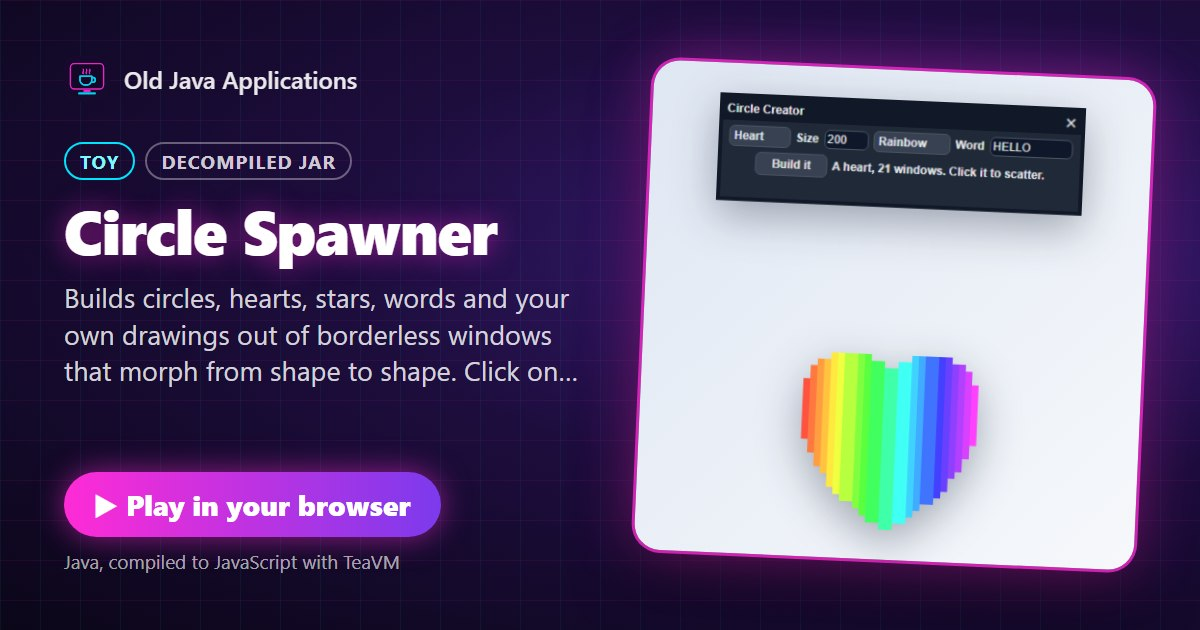
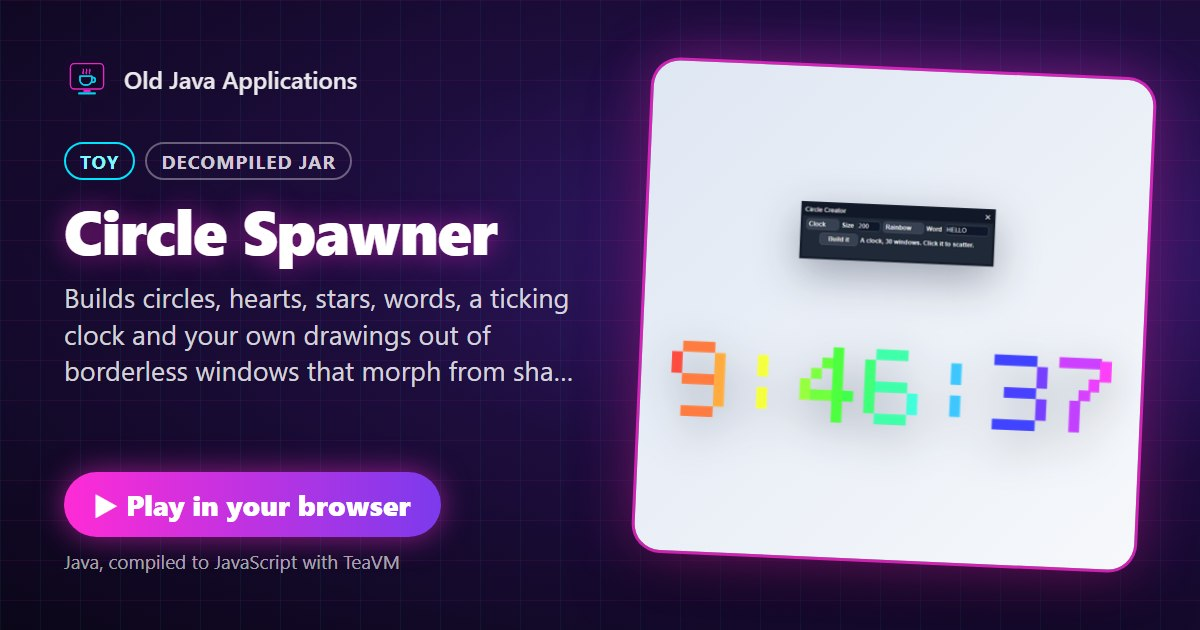
CircleSpawner Clock: the time, built out of windows, ticking every second
New Clock shape spells the local time (12-hour, h:mm:ss) in the pixel font and
keeps it going: each second only the windows of the digits that changed glide
into the next digit, while the rest stay put (Morph can now pair windows by
their place on screen). A slow screen skips a second instead of falling behind;
scattering the clock stops it. Font gains a colon. Self-check covers the time
text, the colon and in-place ticks. New thumbnail and share card.

Claude-Session: https://claude.ai/code/session_01ME2AkgdVoqLCmoiPE7K9JH

Changed region(s): [[0.5858, 0.1508, 0.925, 0.4825], [0.555, 0.5429, 0.925, 0.8746], [0.0308, 0.4524, 0.4933, 0.6333]]

diff --git a/web/site/index.html b/web/site/index.html
@@ -552,7 +552,7 @@
     <li data-app="NumberGuess" data-then data-origin="original" data-cat="game"><a class="thumb" href="NumberGuess/index.html"><img src="shots/NumberGuess.png" alt="Number Guess: a number found on the number line, with stars for the guesses" loading="lazy"></a><div class="body"><strong>Number Guess</strong><span>Find the hidden number in five ranges, from 1-10 to 1-1,000,000. The number line lights what is still possible: type a guess or click it. Par or better is three stars. You pick turns it around: the computer guesses yours. Magic is a card trick: say which of six cards hold your number and it reads your mind, then shows how.</span><div class="actions"><a class="btn primary play" href="NumberGuess/index.html">Play</a><a class="btn" href="NumberGuess/index.html">Full page</a></div></div></li>
     <li data-app="TankGame" data-clip data-then data-origin="original" data-cat="game"><a class="thumb" href="TankGame/index.html"><img src="shots/TankGame.png" alt="Tank Game: a red and a green tank fighting among concrete walls on grass" loading="lazy"></a><div class="body"><strong>Tank Game</strong><span>Tank duel against the computer or a friend, behind walls that change every round, racing for parachuted supply crates: shields, triple shots, ricochets. W A S D and Q drive and fire red, arrow keys and M green. First to three rounds wins.</span><div class="actions"><a class="btn primary play" href="TankGame/index.html">Play</a><a class="btn" href="TankGame/index.html">Full page</a></div></div></li>
     <li data-app="MusicTheoryExpert" data-clip data-then data-origin="original" data-cat="music"><a class="thumb" href="MusicTheoryExpert/index.html"><img src="shots/MusicTheoryExpert.png" alt="Music Theory Expert: the Songwriter, a circle of fifths beside the chords of G major and a keyboard" loading="lazy"></a><div class="body"><strong>Music Theory Expert</strong><span>Ear training in six drills, a Songwriter that loops chord progressions from a circle of fifths, and a Chord finder: hold any notes and it names the chord, writes it on a staff and finds its key.</span><div class="actions"><a class="btn primary play" href="MusicTheoryExpert/index.html">Play</a><a class="btn" href="MusicTheoryExpert/index.html">Full page</a></div></div></li>
-    <li data-app="CircleSpawner" data-clip data-then data-cat="toy" data-min-width="400"><a class="thumb" href="CircleSpawner/index.html"><img src="shots/CircleSpawner.png" alt="A rainbow heart built out of windows under the Circle Creator window" loading="lazy"></a><div class="body"><strong>Circle Spawner</strong><span>Builds circles, hearts, stars, words and your own drawings out of borderless windows that morph from shape to shape. Click one to scatter it.</span><div class="actions"><a class="btn primary play" href="CircleSpawner/index.html">Play</a><a class="btn" href="CircleSpawner/index.html">Full page</a></div></div></li>
+    <li data-app="CircleSpawner" data-clip data-then data-cat="toy" data-min-width="400"><a class="thumb" href="CircleSpawner/index.html"><img src="shots/CircleSpawner.png" alt="A rainbow clock showing the time, built out of windows under the Circle Creator window" loading="lazy"></a><div class="body"><strong>Circle Spawner</strong><span>Builds circles, hearts, stars, words, a ticking clock and your own drawings out of borderless windows that morph from shape to shape. Click one to scatter it.</span><div class="actions"><a class="btn primary play" href="CircleSpawner/index.html">Play</a><a class="btn" href="CircleSpawner/index.html">Full page</a></div></div></li>
     <li data-app="ScreenSaver" data-clip data-then data-cat="toy"><a class="thumb" href="ScreenSaver/index.html"><img src="shots/ScreenSaver.png" alt="Screen Saver: a painted aquarium with named fish among swaying weed" loading="lazy"></a><div class="body"><strong>Screen Saver</strong><span>Nine screen savers, from the original green circles to an aquarium of fish that stay yours: a new one moves in each day you look in, and F feeds them. 9 for the fish, N for the next.</span><div class="actions"><a class="btn primary play" href="ScreenSaver/index.html">Play</a><a class="btn" href="ScreenSaver/index.html">Full page</a></div></div></li>
     <li data-app="Windows" data-cat="toy"><a class="thumb" href="Windows/index.html"><img src="shots/Windows.png" alt="Windows: a Start menu of every app on the site, with a search box" loading="lazy"></a><div class="body"><strong>Windows</strong><span>Presses the Windows key once, then quits. On this page the key opens a pretend Start menu of every app here: type to search, Enter to play.</span><div class="actions"><a class="btn primary play" href="Windows/index.html">Play</a><a class="btn" href="Windows/index.html">Full page</a></div></div></li>
     <li data-app="WindowsE" data-then data-cat="toy"><a class="thumb" href="WindowsE/index.html"><img src="shots/WindowsE.png" alt="Windows+E: a cascade of File Explorer windows beside its DO IT!!! window" loading="lazy"></a><div class="body"><strong>Windows+E</strong><span>Presses Win+E as many times as you ask, opening that many File Explorer windows. Here they are pretend ones over this site's app folders: double-click a folder to play it.</span><div class="actions"><a class="btn primary play" href="WindowsE/index.html">Play</a><a class="btn" href="WindowsE/index.html">Full page</a></div></div></li>

diff --git a/web/site/CircleSpawner/index.html b/web/site/CircleSpawner/index.html
@@ -5,11 +5,11 @@
   <meta name="viewport" content="width=device-width, initial-scale=1">
   <title>Circle Spawner</title>
   <!-- share: written by web/cards.ps1 from the gallery in index.html -->
-  <meta name="description" content="Builds circles, hearts, stars, words and your own drawings out of borderless windows that morph from shape to shape. Click one to scatter it. Recovered from an old Java jar and playable in the browser.">
+  <meta name="description" content="Builds circles, hearts, stars, words, a ticking clock and your own drawings out of borderless windows that morph from shape to shape. Click one to scatter it. Recovered from an old Java jar and playable in the browser.">
   <meta property="og:type" content="website">
   <meta property="og:site_name" content="Old Java Applications">
   <meta property="og:title" content="Circle Spawner | Old Java Applications">
-  <meta property="og:description" content="Builds circles, hearts, stars, words and your own drawings out of borderless windows that morph from shape to shape. Click one to scatter it. Recovered from an old Java jar and playable in the browser.">
+  <meta property="og:description" content="Builds circles, hearts, stars, words, a ticking clock and your own drawings out of borderless windows that morph from shape to shape. Click one to scatter it. Recovered from an old Java jar and playable in the browser.">
   <meta property="og:url" content="../CircleSpawner/index.html">
   <meta property="og:image" content="../cards/CircleSpawner.jpg">
   <meta property="og:image:width" content="1200">

diff --git a/CircleSpawner/src/circlewindow/CircleCreatorWindow.java b/CircleSpawner/src/circlewindow/CircleCreatorWindow.java
@@ -7,6 +7,7 @@ import java.awt.Rectangle;
 import java.awt.Toolkit;
 import java.util.ArrayList;
 import java.util.Arrays;
+import java.util.Date;
 import java.util.List;
 import java.util.Random;
 import javax.swing.JButton;
@@ -39,7 +40,11 @@ public final class CircleCreatorWindow extends JFrame {
    /** Frames for one shape to turn into another, and for the drawing to follow the pen. */
    private static final int MORPH_FRAMES = 40;
    private static final int DRAW_FRAMES = 10;
+   /** Frames for the Clock to turn into the next second, so it settles well before the one after. */
+   private static final int TICK_FRAMES = 24;
    private static final int FRAME_MILLIS = 16;
+   /** How often the Clock looks at the time. */
+   private static final int TICK_MILLIS = 100;
 
    private final JComboBox<String> shapeBox = new JComboBox<>(Shapes.ALL);
    private final JTextField sizeField = new JTextField("200", 4);
@@ -57,9 +62,14 @@ public final class CircleCreatorWindow extends JFrame {
    private final Timer buildTimer = new Timer(FRAME_MILLIS, event -> this.buildStep());
    private final Timer scatterTimer = new Timer(FRAME_MILLIS, event -> this.scatterStep());
    private final Timer morphTimer = new Timer(FRAME_MILLIS, event -> this.morphStep());
+   private final Timer clockTimer = new Timer(TICK_MILLIS, event -> this.tick());
    private final Saved saved = Saved.load();
    private Morph morph;
    private String builtShape = "";
+   /** The time the Clock on screen spells (or is turning into). */
+   private String shownTime = "";
+   /** True while the Clock turns into the next second: no messages, nothing saved, windows stay in place. */
+   private boolean ticking;
    private int built;
    private int scatterFrame;
    private boolean settingUp = true;
@@ -127,6 +137,26 @@ public final class CircleCreatorWindow extends JFrame {
       this.setVisible(true);
       this.settingUp = false;
       this.build();
+      this.clockTimer.start();
+   }
+
+   /**
+    * Turns the Clock on screen into the time now when the second has changed, once whatever it is doing is
+    * done (so a slow screen skips a second rather than never settling).
+    */
+   private void tick() {
+      if (!Shapes.CLOCK.equals(this.builtShape) || !Shapes.CLOCK.equals(this.shapeBox.getSelectedItem())
+            || this.slices.isEmpty() || this.buildTimer.isRunning() || this.scatterTimer.isRunning()
+            || this.morphTimer.isRunning()
+            || Shapes.clockText(new Date()).equals(this.shownTime)) {
+         return;
+      }
+      this.ticking = true;
+      try {
+         this.show(TICK_FRAMES);
+      } finally {
+         this.ticking = false;
+      }
    }
 
    private boolean drawing() {
@@ -182,8 +212,15 @@ public final class CircleCreatorWindow extends JFrame {
          return null;
       }
       this.builtShape = shape;
-      this.remember();
-      List<Rectangle> pieces = Shapes.build(shape, size, this.wordField.getText(), this.pad.cells(),
+      String word = this.wordField.getText();
+      if (Shapes.CLOCK.equals(shape)) {
+         word = Shapes.clockText(new Date());
+         this.shownTime = word;
+      }
+      if (!this.ticking) {
+         this.remember();
+      }
+      List<Rectangle> pieces = Shapes.build(shape, size, word, this.pad.cells(),
          screen.width / 2, top + (screen.height - top) / 2, screen.width * 9 / 10);
       if (pieces.isEmpty()) {
          this.status.setText("Draw on the pad and the windows follow.");
@@ -236,9 +273,9 @@ public final class CircleCreatorWindow extends JFrame {
       this.stopAll();
       this.pending.clear();
       this.pendingColors.clear();
-      this.morph = new Morph(this.slices, pieces, this.colors(pieces, this.builtShape), frames,
+      this.morph = new Morph(this.slices, pieces, this.colors(pieces, this.builtShape), frames, this.ticking,
          (bounds, color) -> new CircleSliceWindow(bounds, color, "", false, this::scatter));
-      if (frames > DRAW_FRAMES) {
+      if (frames > DRAW_FRAMES && !this.ticking) {
          this.status.setText("Changing into " + this.shapeName() + "...");
       }
       this.morphTimer.start();

diff --git a/CircleSpawner/src/circlewindow/Morph.java b/CircleSpawner/src/circlewindow/Morph.java
@@ -27,16 +27,17 @@ final class Morph {
    /**
     * Starts moving the shape's windows (old) to the rectangles target with colors. The shape's list of windows
     * becomes the new shape's at once, in target order; newWindow makes a window that splits off at a rectangle,
-    * in a color.
+    * in a color. With inPlace (the Clock ticking) windows pair by where they are on screen rather than within
+    * their shape, so the windows of the digits that did not change stay where they are.
     */
-   Morph(List<CircleSliceWindow> old, List<Rectangle> target, List<Color> colors, int frames,
+   Morph(List<CircleSliceWindow> old, List<Rectangle> target, List<Color> colors, int frames, boolean inPlace,
          BiFunction<Rectangle, Color, CircleSliceWindow> newWindow) {
       this.frames = Math.max(1, frames);
       List<Rectangle> oldBounds = new ArrayList<>();
       for (CircleSliceWindow w : old) {
          oldBounds.add(w.getBounds());
       }
-      int[] source = match(target, oldBounds);
+      int[] source = match(target, oldBounds, inPlace);
       boolean[] used = new boolean[old.size()];
       List<CircleSliceWindow> next = new ArrayList<>();
       for (int i = 0; i < target.size(); i++) {
@@ -52,7 +53,7 @@ final class Morph {
          this.add(w, target.get(i), colors.get(i));
          next.add(w);
       }
-      int[] sink = match(oldBounds, target);
+      int[] sink = match(oldBounds, target, inPlace);
       for (int s = 0; s < old.size(); s++) {
          if (!used[s]) {
             CircleSliceWindow w = old.get(s);
@@ -102,16 +103,19 @@ final class Morph {
    /**
     * For each rectangle in wanted, the index of the rectangle in have at the most similar place within its own
     * shape (centers and sizes as fractions of each shape's bounds), each one used once while any are left and
-    * then shared; -1 when have is empty. Nearest pairs are taken first.
+    * then shared; -1 when have is empty. Nearest pairs are taken first. With inPlace both are measured against
+    * the bounds of the two shapes together, so a rectangle that is in both pairs with itself.
     */
-   static int[] match(List<Rectangle> wanted, List<Rectangle> have) {
+   static int[] match(List<Rectangle> wanted, List<Rectangle> have, boolean inPlace) {
       int[] result = new int[wanted.size()];
       Arrays.fill(result, -1);
       if (have.isEmpty() || wanted.isEmpty()) {
          return result;
       }
-      double[][] a = normalized(wanted);
-      double[][] b = normalized(have);
+      Rectangle together = bounds(wanted);
+      together.add(bounds(have));
+      double[][] a = normalized(wanted, inPlace ? together : bounds(wanted));
+      double[][] b = normalized(have, inPlace ? together : bounds(have));
       int pairs = wanted.size() * have.size();
       double[] cost = new double[pairs];
       for (int i = 0; i < wanted.size(); i++) {
@@ -148,12 +152,16 @@ final class Morph {
       return result;
    }
 
-   /** Each rectangle's center and size as fractions of the bounds of them all. */
-   private static double[][] normalized(List<Rectangle> rects) {
+   private static Rectangle bounds(List<Rectangle> rects) {
       Rectangle area = new Rectangle(rects.get(0));
       for (Rectangle r : rects) {
          area.add(r);
       }
+      return area;
+   }
+
+   /** Each rectangle's center and size as fractions of area's size, measured from its corner. */
+   private static double[][] normalized(List<Rectangle> rects, Rectangle area) {
       double w = Math.max(1, area.width);
       double h = Math.max(1, area.height);
       double[][] out = new double[rects.size()][];

diff --git a/CircleSpawner/test/circlewindow/MorphCheck.java b/CircleSpawner/test/circlewindow/MorphCheck.java
@@ -2,6 +2,7 @@ package circlewindow;
 
 import java.awt.Rectangle;
 import java.util.Arrays;
+import java.util.Date;
 import java.util.HashSet;
 import java.util.List;
 import java.util.Set;
@@ -12,12 +13,12 @@ public class MorphCheck {
       // Matching: every wanted rectangle gets one, each used once while any are left, the nearest first.
       List<Rectangle> have = Arrays.asList(new Rectangle(0, 0, 10, 10), new Rectangle(90, 0, 10, 10), new Rectangle(0, 90, 10, 10));
       List<Rectangle> mirrored = Arrays.asList(new Rectangle(500, 590, 10, 10), new Rectangle(590, 500, 10, 10), new Rectangle(500, 500, 10, 10));
-      int[] m = Morph.match(mirrored, have);
+      int[] m = Morph.match(mirrored, have, false);
       check(Arrays.equals(m, new int[] {2, 1, 0}), "same places in their shapes pair up, wherever the shapes are: " + Arrays.toString(m));
 
       List<Rectangle> more = Arrays.asList(new Rectangle(0, 0, 5, 5), new Rectangle(5, 0, 5, 5), new Rectangle(95, 0, 5, 5),
          new Rectangle(0, 95, 5, 5), new Rectangle(50, 50, 5, 5));
-      m = Morph.match(more, have);
+      m = Morph.match(more, have, false);
       Set<Integer> used = new HashSet<>();
       for (int s : m) {
          check(s >= 0 && s < have.size(), "every new window has a source");
@@ -25,10 +26,10 @@ public class MorphCheck {
       }
       check(used.size() == have.size(), "with more windows wanted, every old one is reused");
 
-      m = Morph.match(have, more);
+      m = Morph.match(have, more, false);
       check(new HashSet<>(Arrays.asList(m[0], m[1], m[2])).size() == 3, "with fewer wanted, no source is shared");
-      check(Morph.match(have, Arrays.asList()).length == 3 && Morph.match(have, Arrays.asList())[0] == -1, "nothing to match gives -1");
-      check(Morph.match(Arrays.asList(), have).length == 0, "nothing wanted gives nothing");
+      check(Morph.match(have, Arrays.asList(), false).length == 3 && Morph.match(have, Arrays.asList(), false)[0] == -1, "nothing to match gives -1");
+      check(Morph.match(Arrays.asList(), have, false).length == 0, "nothing wanted gives nothing");
 
       // Drawing: the smile builds a few dozen windows inside the size asked for; an empty pad builds none.
       DrawPad pad = new DrawPad(() -> { });
@@ -53,6 +54,22 @@ public class MorphCheck {
       DrawPad counted = new DrawPad(() -> changes[0]++);
       counted.clear();
       check(changes[0] == 1, "clear tells the window");
+      // Clock: a desk clock's time, and from one second to the next the digits that did not change keep their windows.
+      check("9:05:07".equals(Shapes.clockText(new Date(2026 - 1900, 0, 1, 21, 5, 7))), "clock text at 21:05:07");
+      check("12:00:00".equals(Shapes.clockText(new Date(2026 - 1900, 0, 1, 0, 0, 0))), "clock text at midnight");
+      check(PixelFont.has(':') && PixelFont.lit(':', 2, 1) && !PixelFont.lit(':', 2, 3), "the font has a colon");
+      List<Rectangle> before = Shapes.build(Shapes.CLOCK, 200, "12:34:56", null, 500, 400, 900);
+      List<Rectangle> after = Shapes.build(Shapes.CLOCK, 200, "12:34:51", null, 500, 400, 900);
+      int[] tick = Morph.match(after, before, true);
+      int stayed = 0;
+      int same = 0;
+      for (int i = 0; i < after.size(); i++) {
+         if (before.contains(after.get(i))) {
+            same++;
+            stayed += before.get(tick[i]).equals(after.get(i)) ? 1 : 0;
+         }
+      }
+      check(same > 20 && stayed == same, "a tick keeps " + stayed + " of the " + same + " windows that did not change");
       System.out.println("MorphCheck: all checks passed");
    }
 

diff --git a/CircleSpawner/src/circlewindow/Shapes.java b/CircleSpawner/src/circlewindow/Shapes.java
@@ -3,6 +3,7 @@ package circlewindow;
 import java.awt.Rectangle;
 import java.util.ArrayList;
 import java.util.Comparator;
+import java.util.Date;
 import java.util.List;
 
 /** Turns a shape into the rectangles of the windows that draw it, in the order they should appear. */
@@ -12,8 +13,9 @@ final class Shapes {
    static final String HEART = "Heart";
    static final String STAR = "Star";
    static final String WORD = "Word";
+   static final String CLOCK = "Clock";
    static final String DRAW = "Draw";
-   static final String[] ALL = {CIRCLE, RING, HEART, STAR, WORD, DRAW};
+   static final String[] ALL = {CIRCLE, RING, HEART, STAR, WORD, CLOCK, DRAW};
    /** Grid cells across a ring, heart or star: fine enough to look smooth, coarse enough to stay a few dozen windows. */
    private static final int CELLS = 28;
    static final int MAX_WORD_LENGTH = 12;
@@ -22,14 +24,15 @@ final class Shapes {
    }
 
    /**
-    * The windows for a shape about size pixels across, centered on (centerX, centerY). A word is size pixels
-    * tall, or less if that would make it wider than maxWidth. Draw is the drawing, a square grid of cells.
+    * The windows for a shape about size pixels across, centered on (centerX, centerY). A word (and the Clock,
+    * whose word is the time) is size pixels tall, or less if that would make it wider than maxWidth. Draw is
+    * the drawing, a square grid of cells.
     */
    static List<Rectangle> build(String shape, int size, String word, boolean[][] drawing, int centerX, int centerY, int maxWidth) {
       if (CIRCLE.equals(shape)) {
          return circle(size, centerX, centerY);
       }
-      if (WORD.equals(shape)) {
+      if (WORD.equals(shape) || CLOCK.equals(shape)) {
          return word(cleanWord(word), size, centerX, centerY, maxWidth);
       }
       boolean[][] grid;
@@ -57,6 +60,21 @@ final class Shapes {
       // Grow from the middle outwards.
       pieces.sort(Comparator.comparingDouble(r -> Math.hypot(r.x + r.width / 2.0 - centerX, r.y + r.height / 2.0 - centerY)));
       return pieces;
+   }
+
+   /**
+    * The time the Clock shape spells, as on a desk clock: 12-hour, hours without a leading zero, minutes and
+    * seconds with one ("9:05:07", "12:30:00"). Date's getters read local time on the desktop and in the
+    * browser (TeaVM's Calendar is always UTC).
+    */
+   @SuppressWarnings("deprecation")
+   static String clockText(Date now) {
+      int hour = now.getHours() % 12;
+      return (hour == 0 ? 12 : hour) + ":" + twoDigits(now.getMinutes()) + ":" + twoDigits(now.getSeconds());
+   }
+
+   private static String twoDigits(int n) {
+      return (n < 10 ? "0" : "") + n;
    }
 
    /** The word in capitals with the characters the font cannot draw left out, at most MAX_WORD_LENGTH long. */

diff --git a/CircleSpawner/src/circlewindow/PixelFont.java b/CircleSpawner/src/circlewindow/PixelFont.java
@@ -1,10 +1,10 @@
 package circlewindow;
 
-/** A 5 x 7 pixel font for the Word shape: capital letters, digits and a little punctuation. */
+/** A 5 x 7 pixel font for the Word and Clock shapes: capital letters, digits and a little punctuation. */
 final class PixelFont {
    static final int WIDTH = 5;
    static final int HEIGHT = 7;
-   private static final String CHARS = "ABCDEFGHIJKLMNOPQRSTUVWXYZ0123456789!?.-' ";
+   private static final String CHARS = "ABCDEFGHIJKLMNOPQRSTUVWXYZ0123456789!?.-' :";
    private static final String[][] GLYPHS = {
       {".###.", "#...#", "#...#", "#####", "#...#", "#...#", "#...#"},
       {"####.", "#...#", "#...#", "####.", "#...#", "#...#", "####."},
@@ -48,6 +48,7 @@ final class PixelFont {
       {".....", ".....", ".....", "#####", ".....", ".....", "....."},
       {"..#..", "..#..", ".....", ".....", ".....", ".....", "....."},
       {".....", ".....", ".....", ".....", ".....", ".....", "....."},
+      {".....", "..#..", "..#..", ".....", "..#..", "..#..", "....."},
    };
 
    private PixelFont() {

diff --git a/CircleSpawner/README.md b/CircleSpawner/README.md
@@ -1,13 +1,14 @@
 # CircleSpawner
 
-Builds shapes on screen out of borderless windows. The original app did one thing: enter a diameter and it filled a disk with blue windows, each a rectangle whose corners sit on the circle, so the overlapping rectangles together form the disk. That circle is still the first shape, and the same trick now draws a ring, a heart, a star, a word you type or a picture you draw, in rainbow or sunset colors, growing in a few windows at a time. Pick another shape and the windows already on screen glide, stretch and change color into it instead of starting over; draw on the pad and the windows follow your pen. Click any window of the shape and it bursts apart. Recovered from the git history of github.com/Nate314/site (`assets/javaApplications`).
+Builds shapes on screen out of borderless windows. The original app did one thing: enter a diameter and it filled a disk with blue windows, each a rectangle whose corners sit on the circle, so the overlapping rectangles together form the disk. That circle is still the first shape, and the same trick now draws a ring, a heart, a star, a word you type, the time or a picture you draw, in rainbow or sunset colors, growing in a few windows at a time. Pick another shape and the windows already on screen glide, stretch and change color into it instead of starting over; draw on the pad and the windows follow your pen. Click any window of the shape and it bursts apart. Recovered from the git history of github.com/Nate314/site (`assets/javaApplications`).
 
 ## Controls / usage
 
-- **Shape** (the first list): Circle (the original), Ring, Heart, Star, Word or Draw. Picking one turns the shape on screen into it (see Morphing), or builds it if nothing is showing.
+- **Shape** (the first list): Circle (the original), Ring, Heart, Star, Word, Clock or Draw. Picking one turns the shape on screen into it (see Morphing), or builds it if nothing is showing.
 - **Size**: about how many pixels across the shape is (default `200`). It must be a whole number from 2 to the room below the creator window (the smaller of the screen width and the height under the window); otherwise the window says which sizes work. A word is that tall, or smaller if it would not fit across the screen.
 - **Colors** (the second list): Rainbow (the default), Blue (the original's color) or Sunset. The circle's slices are colored in the order they appear, since they share one center; the other shapes change color from left to right.
-- **Word**: up to 12 letters, digits or `! ? . - '` (other characters are left out) in a 5 x 7 pixel font. Enter in this field builds the word.
+- **Word**: up to 12 letters, digits or `! ? . - ' :` (other characters are left out) in a 5 x 7 pixel font. Enter in this field builds the word.
+- **Clock**: the time, spelled out in windows in the same font as a desk clock would show it (12-hour, `9:05:07`, local time) and kept going: every second the windows of the digits that changed glide into the next digit, in about 0.4 s, while the rest stay exactly where they are (a tick pairs windows by where they are on the screen, not by where they sit in their shape). Size, colors and scattering work as for a word. A scattered clock stops until you pick a shape or press Build it. If the screen is too slow to finish a change within the second, the clock skips that second rather than falling behind.
 - **Draw**: shows a 20 x 20 drawing pad beside the controls (under them when the screen is narrower than 560 pixels, which makes the window taller). Press an empty cell and drag to draw, press a filled one and drag to erase. Every change reshapes the windows on screen within a few frames. **Mirror** (on at first) copies each stroke onto the other side of the blue middle line, so faces, hearts and butterflies come out even. **Clear** empties the pad, and the windows shrink away. The pad starts with a smiling face. A drawing is the Size across (made smaller, rather than refused, when the taller window leaves less room under it).
 - **Build it**: builds the chosen shape again from nothing, replacing the one on screen, growing in as at the start.
 - **Morphing**: changing the shape, the colors, the size (Enter in Size) or the word (Enter in Word) while a shape is on screen moves its windows into the new one over about two thirds of a second. Each new window comes from the old window at the most similar place in its own shape (the same corner, side or middle, and a similar size), nearest pairs first. When the new shape needs more windows, the extra ones split off old ones; when it needs fewer, the old ones left over shrink into the nearest new window and close. While the shape is flying apart, a change builds the new shape from scratch.
@@ -23,7 +24,7 @@ Builds shapes on screen out of borderless windows. The original app did one thin
 - `src/circlewindow/Main.java`: entry point; creates a `CircleCreatorWindow`.
 - `src/circlewindow/CircleCreatorWindow.java`: the creator window; reads the controls, colors the pieces, builds a shape a few windows per frame and scatters it, each with a Swing timer.
 - `src/circlewindow/Shapes.java`: turns a shape into the rectangles of its windows: the original circle slices, the ring, heart and star on a grid, and words.
-- `src/circlewindow/PixelFont.java`: the 5 x 7 pixel font for words.
+- `src/circlewindow/PixelFont.java`: the 5 x 7 pixel font for words and the clock.
 - `src/circlewindow/CircleSliceWindow.java`: one undecorated window of solid color at a given place and size, which can be moved and recolored; pressing it scatters the shape.
 - `src/circlewindow/Morph.java`: turns the windows of one shape into another: pairs old windows with new places, splits off or closes the difference, and moves them frame by frame.
 - `src/circlewindow/DrawPad.java`: the drawing pad, with Mirror, Clear, the first smiling face and the saved form of a drawing.
@@ -31,7 +32,7 @@ Builds shapes on screen out of borderless windows. The original app did one thin
 
 ## Self-check
 
-`test/circlewindow/MorphCheck.java` checks the morph pairing (the same places in two shapes pair up wherever the shapes are, every old window is reused when more are wanted, none is shared when fewer are), the drawn shape's size and place, an empty drawing, and that a saved drawing reads back. From `CircleSpawner/`:
+`test/circlewindow/MorphCheck.java` checks the morph pairing (the same places in two shapes pair up wherever the shapes are, every old window is reused when more are wanted, none is shared when fewer are), the drawn shape's size and place, an empty drawing, that a saved drawing reads back, the clock's time text and colon, and that a clock tick keeps every window of the digits that did not change in place. From `CircleSpawner/`:
 
 ```
 javac -d ../out/check/CircleSpawner src/circlewindow/*.java test/circlewindow/*.java

diff --git a/web/README.md b/web/README.md
@@ -45,7 +45,7 @@ One-time setup, in the repository on GitHub: Settings > Pages > Build and deploy
 | ScreenSaver | Works | All nine savers, the keys and the caption work as on the desktop. The "screen" is the page desktop (the stage under the toolbar on its own page), and the tile size comes from its size (see the app README). The saver last shown, cycling, the speed, the tile size and the Aquarium's fish are kept in the browser (see Saved files), so a visitor's fish are there next visit and a new one moves in each day they look in; Your records counts them. Moving the mouse exits, after the first 1.5 seconds. |
 | SpriteFloatyStars | Works | Settings window, all modes (hold to pull the stars, let go to fling them, with the mouse or a finger) and Star Catcher, with the mouse, the keys or the touch controller. The most time left per night is kept in the browser (see Saved files). |
 | UltimateTicTacToe | Works | The record against the computer, the last mode and the game with a friend are kept in the browser (see Saved files). Friend by link sends links to the page itself: the page has `<body data-args-page>`, so `boot.js` passes `main` the page's address, and the app reads a friend's game from its `?game=` and builds the links it copies from the rest (in the home page's player, without `?embed`). A page opened with `?game=` says on its title screen that a friend sent a game and it is the visitor's move. The player's iframe has `allow="clipboard-write"`, so the copy works there too. Hard's search runs on the page's only thread, so the page does not respond for its 0.7 s of thinking; the computer waits for the player's mark (and any board it won) to finish drawing in first, so the search does not freeze the drawing. The board is painted by its 81 cell buttons (borderless and unfilled, like Minesweeper's tiles), each drawing its slice of the shapes that span a board; the mouse previews a move through `mouseEntered`/`mouseExited`, so on a touch screen a tap plays at once, without the preview. Review game analyses one position per Swing timer tick (about 0.12 s of search each), so the page stays responsive between searches and the review can be stepped through while it fills in. |
-| CircleSpawner | Works | Each piece of the shape is a borderless window on the page, and the shapes, colors, words, drawing pad, morphing between shapes and scattering work as on the desktop (the drawing is saved like any other app file). The page has `<body data-own-layout>`: the app places its creator window and its shape against the screen itself, so `boot.js` does not recenter the windows as a group (that would slide everything about while a shape grows in, one window at a time). |
+| CircleSpawner | Works | Each piece of the shape is a borderless window on the page, and the shapes, colors, words, the ticking Clock (in the visitor's local time), drawing pad, morphing between shapes and scattering work as on the desktop (the drawing is saved like any other app file). The page has `<body data-own-layout>`: the app places its creator window and its shape against the screen itself, so `boot.js` does not recenter the windows as a group (that would slide everything about while a shape grows in, one window at a time). |
 | BibleDownloader | Works | The reader runs as on the desktop: chapters come from bible-api.com, which sends CORS headers, through TeaVM's `URLConnection` (an XMLHttpRequest). The place, the chapters read and the highlights are kept in the browser (see Saved files). Save hands the chapters to the browser as a download (see Saved files). Its window is sized to the page: on a page narrower than 700 px it shows one page of the book at a time. Its icon is skipped (see Compile-time rewrites). Offline, chapters it has not fetched in this visit show "could not reach bible-api.com" with Try again. By heart (L) keeps each verse's text in the saved file, so verses already added can be practiced offline; on a phone, where there is no keyboard, the three letter buttons under the verse take the place of typing. The title screen adds "by heart: 3 verses, 1 to practice today" to the Your Bible line. |
 | StockChecker | Works | The practice trading desk runs as on the desktop. It makes no network requests: the Yahoo quote API is retired, and day 1 opens at the bundled `stockCheck.csv`. The ticker list and the desk are kept in the browser (see Saved files). On pages narrower than its 720 px window it is scaled down. |
 | SynthesizerKeyboard | Works | Play with the keyboard, the mouse or the touch controller; the five song lessons and Listen work as on the desktop, and the best stars per song and the last tune are kept in the browser (see Saved files). Record sends links to the page itself, like Ultimate Tic-Tac-Toe's Friend by link: the page has `<body data-args-page>`, the app reads a friend's tune from `?tune=` and builds the links it copies from the rest. A page opened with `?tune=` says on its title screen that a friend sent a tune; after Play, the app plays it once and then teaches it. Browsers start audio only after a click or key press, which the title screen's Play provides. The microphone (Sing along, or I) works as on the desktop through the shim's `TargetDataLine` (see Images, files and sound); the browser asks the visitor first, and the home page's player frame has `allow="microphone"` so it can ask there too. The looper (O) plays each layer on its own MIDI channel of the shim's Web Audio synthesizer and keeps its loop in `/.synthesizer-loop.txt`; its click is on the drum channel, which the web synthesizer plays as a short tone rather than a wood block. On `master` sources, clicking a key starts a note that never stops and freezes the app (its documented bug: it waits for a timer that runs on the same event thread), as on the desktop; the modernized sources fix that. |

diff --git a/README.md b/README.md
@@ -20,7 +20,7 @@ Each project has its sources in `src/` (decompiled ones with their original `MET
 | [ScreenSaver](ScreenSaver/README.md) | Nine screen savers (the original green circles, Starfield, Mystify, Pipes, a bouncing logo, a dot clock, and an aquarium whose fish stay yours, one more each day you look in) that close when the mouse moves |
 | [SpriteFloatyStars](SpriteFloatyStars/README.md) | Animated stars with five modes that you can pull in and fling with the mouse, and Star Catcher: click gold stars over those modes across six nights, dodging black holes |
 | [UltimateTicTacToe](UltimateTicTacToe/README.md) | Ultimate Tic-Tac-Toe on a painted board that shows where a move would send your opponent before you play it, against an Easy or Hard computer, for two players, or with a friend anywhere by sending a link (or code) after each move; after a game, Review game grades every move with the computer's search and shows a better one where a move slipped |
-| [CircleSpawner](CircleSpawner/README.md) | Builds a circle (the original), ring, heart, star, a typed word or your own drawing out of borderless windows, which glide and stretch from one shape into the next, follow your pen on the drawing pad, and burst apart when clicked |
+| [CircleSpawner](CircleSpawner/README.md) | Builds a circle (the original), ring, heart, star, a typed word, a live clock or your own drawing out of borderless windows, which glide and stretch from one shape into the next (the clock into each new second), follow your pen on the drawing pad, and burst apart when clicked |
 | [DinoGame](DinoGame/README.md) | Once only a bot that played the Chrome dino game by watching a screen pixel; now the dinosaur game itself with that bot built in: press B to watch it play by its one pixel, beat its best, or drag its eye to tune it, or press E to evolve better bots: 20 at a time race the same course, the furthest breed the next generation, and they learn to duck. `./run.ps1 DinoGame screen` still runs the original screen bot |
 | [StockChecker](StockChecker/README.md) | Once a ticker list that fetched quotes from the retired Yahoo Finance CSV API; now a practice trading desk with $10,000 of play money in a simulated market that opens at its last saved real quotes, raced by four computer traders that each follow one plain rule |
 | [SynthesizerKeyboard](SynthesizerKeyboard/README.md) | One-octave MIDI piano keyboard played with the computer keyboard, with five song lessons that light the next key and award stars, and a recorder: play a tune of your own and send it as a link (or code) that plays it to a friend and teaches it to them. Sing, whistle or play a real instrument to the microphone and the lessons count your notes, with a tuner showing the note you are on. A looper records two bars at a time into up to four layers, each in its own sound, that play round and round while you play over them |
